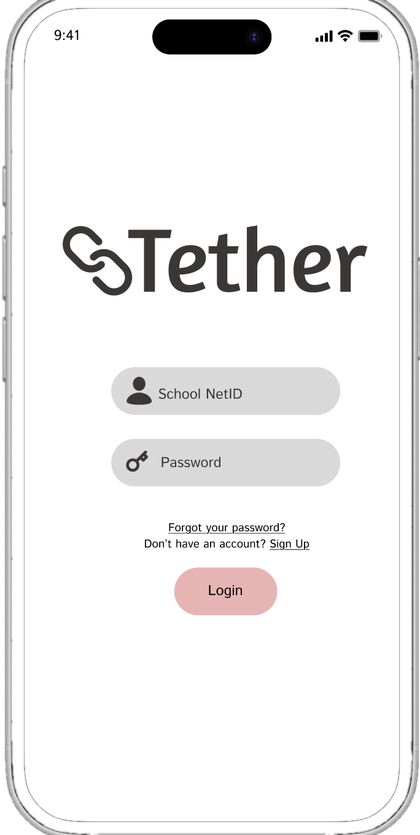
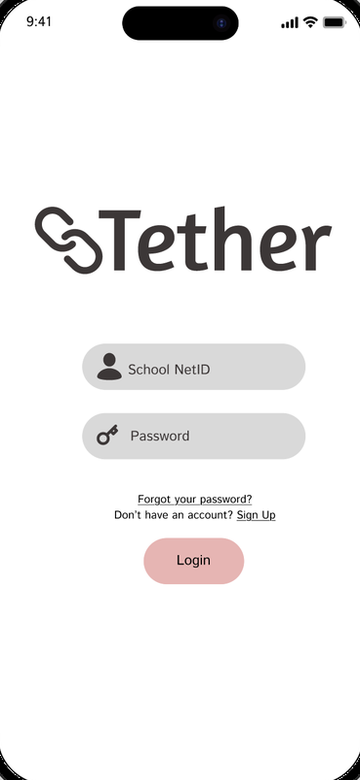
Match all phone frames and enlarge project cards
Tether screens are now cropped from their mockups and share one CSS bezel
with the Schneider phones. Cards, phones and laptops are a bit larger.

diff --git a/src/components/ProjectStack.css b/src/components/ProjectStack.css
@@ -49,7 +49,7 @@
   position: sticky;
   top: 88px;
   width: 90%;
-  max-width: 960px;
+  max-width: 1080px;
   margin-inline: auto;
   transform: scale(1) translateY(0);
   --overlay-o: 0;
@@ -60,11 +60,11 @@
   position: relative;
   isolation: isolate;
   display: flex;
-  gap: 40px;
-  min-height: 440px;
+  gap: 48px;
+  min-height: 520px;
   background: var(--color-bg);
   border-radius: 20px;
-  padding: 48px;
+  padding: 56px;
   transition: transform 250ms cubic-bezier(0.25, 0.85, 0.3, 1);
 }
 
@@ -114,14 +114,15 @@
    sized by its own screenshot (aspect-ratio comes from --phone-ratio), so the
    bezel always hugs the image with no gap. */
 .project-card__phones {
-  --phone-w: 132px;
-  flex: 0 0 calc(var(--phone-w) * 3 + 32px);
+  --phone-w: 158px;
+  flex: 0 0 calc(var(--phone-w) * 3 + 36px);
   display: flex;
   align-items: center;
   justify-content: space-between;
 }
 
 .phone {
+  box-sizing: border-box;
   width: var(--phone-w);
   transform: translateY(var(--phone-lift, 0));
 }
@@ -135,48 +136,46 @@
 }
 
 /* Screenshots that already carry a device bezel: just lift them off the page. */
-.phone:not(.phone--framed) img {
-  filter: drop-shadow(0 14px 18px rgba(36, 26, 22, 0.28));
-}
-
-/* Slim CSS bezel for flat screenshots. Literal device material, like the
-   laptop chrome, so it uses a plain near-black rather than a palette token. */
-.phone--framed {
+/* One slim bezel for every phone. Literal device material, like the laptop
+   chrome, so it uses a plain near-black rather than a palette token. */
+.phone {
+  --phone-pad: 5px;
+  --phone-radius: calc((var(--phone-w) - var(--phone-pad) * 2) * 0.125);
   position: relative;
-  padding: 4px;
-  border-radius: 24px;
+  padding: var(--phone-pad);
+  border-radius: calc(var(--phone-radius) + var(--phone-pad));
   background: #1a1b1d;
   box-shadow:
     inset 0 0 0 1px rgba(255, 255, 255, 0.14),
-    0 14px 22px rgba(36, 26, 22, 0.26);
+    0 16px 26px rgba(36, 26, 22, 0.26);
 }
 
-.phone--framed::after {
+.phone img {
+  border-radius: var(--phone-radius);
+}
+
+.phone--island::after {
   content: '';
   position: absolute;
-  top: 9px;
+  top: calc(var(--phone-pad) + 6px);
   left: 50%;
   width: 26%;
-  height: 5px;
+  height: 6px;
   border-radius: 3px;
   background: #1a1b1d;
   transform: translateX(-50%);
 }
 
-.phone--framed img {
-  border-radius: 20px;
-}
-
 /* Two overlapping laptops: the first sits top-left, the second bottom-right.
    Each lid is exactly the screenshot plus a thin bezel. */
 .project-card__laptops {
-  --laptop-w: 300px;
+  --laptop-w: 360px;
   --laptop-silver-1: #eceef0;
   --laptop-silver-2: #c7c9cc;
   --laptop-silver-3: #a3a5a8;
   position: relative;
   flex: 0 0 calc(var(--laptop-w) * 1.4);
-  min-height: 300px;
+  min-height: 360px;
 }
 
 .mini-laptop {
@@ -280,13 +279,13 @@
 
 .project-card__title {
   font-weight: 500;
-  font-size: 1.75rem;
+  font-size: 2rem;
   color: var(--color-text);
 }
 
 .project-card__copy {
   max-width: 640px;
-  font-size: 1rem;
+  font-size: 1.0625rem;
   line-height: 1.5;
   color: var(--color-text);
 }

diff --git a/src/components/ProjectStack.tsx b/src/components/ProjectStack.tsx
@@ -19,10 +19,10 @@ interface CaseStudy {
   title: string
   copy: string
   tags: string[]
-  // Three same-size phones. `framed: false` means the screenshots already
-  // include a device bezel, so they render as-is instead of inside the CSS
-  // frame. `ratio` is the shared width / height of the screenshots.
-  phones?: { screens: string[]; framed: boolean; ratio: string }
+  // Three same-size phones in one shared CSS frame. `ratio` is the screenshots'
+  // width / height; `island` adds the camera pill for screenshots that don't
+  // already include one.
+  phones?: { screens: string[]; island: boolean; ratio: string }
   laptops?: string[]
 }
 
@@ -35,7 +35,7 @@ const CASE_STUDIES: CaseStudy[] = [
     tags: ['UX Research', 'Search Optimization', 'Frontend Development'],
     phones: {
       screens: [schneiderCard1, schneiderCard2, schneiderCard3],
-      framed: true,
+      island: true,
       ratio: '420 / 763',
     },
   },
@@ -55,8 +55,8 @@ const CASE_STUDIES: CaseStudy[] = [
     tags: ['UX Research', 'Interaction Design', 'Prototyping'],
     phones: {
       screens: [tetherCard1, tetherCard2, tetherCard3],
-      framed: false,
-      ratio: '420 / 838',
+      island: false,
+      ratio: '360 / 780',
     },
   },
 ]
@@ -187,7 +187,7 @@ function ProjectStack() {
                   {study.phones.screens.map((src, slotIndex) => (
                     <div
                       key={src}
-                      className={`phone${study.phones?.framed ? ' phone--framed' : ''}`}
+                      className={`phone${study.phones?.island ? ' phone--island' : ''}`}
                       style={{ '--phone-lift': `${(2 - slotIndex) * 10}px` } as CSSProperties}
                     >
                       <img src={src} alt="" decoding="async" />
